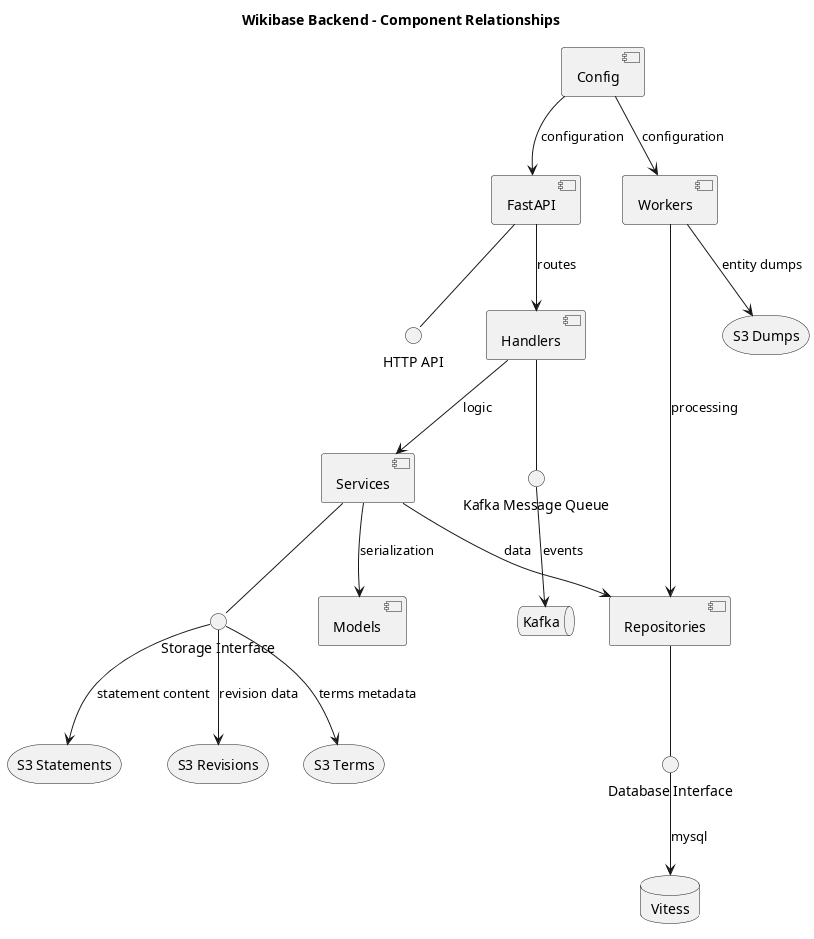
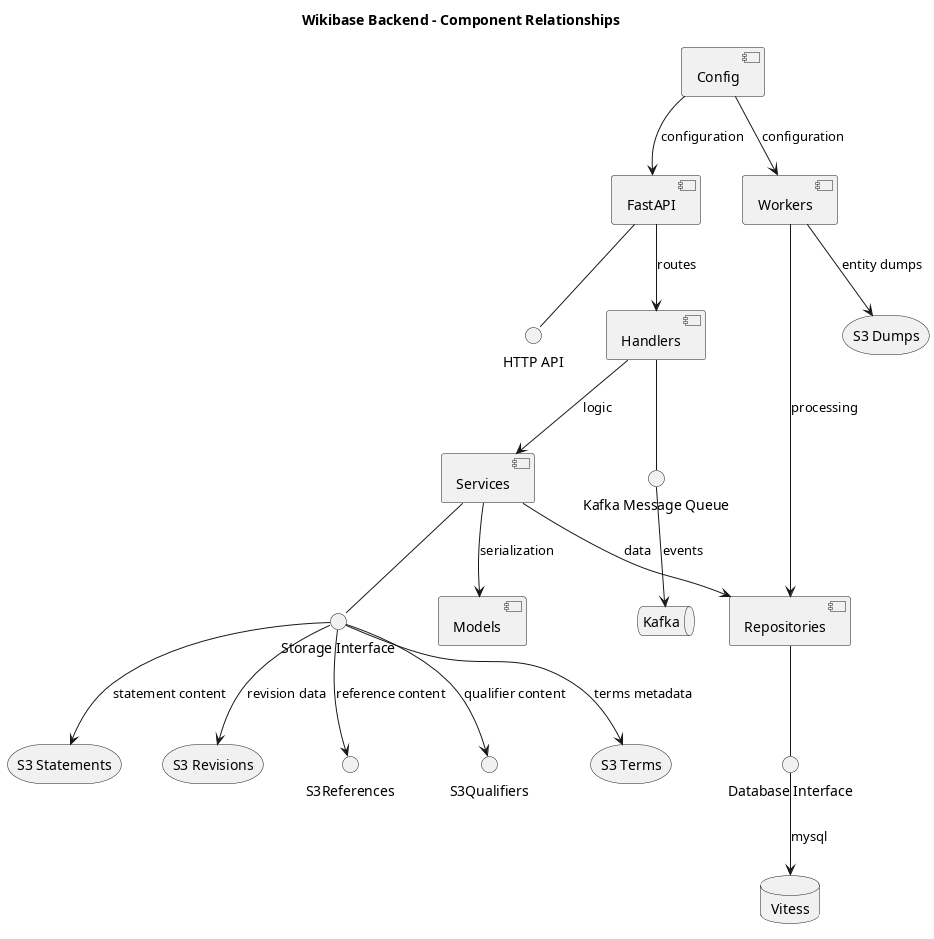
Update diagram generation scripts to include new S3 buckets for references and qualifiers

diff --git a/scripts/doc/generate_architecture_diagrams.py b/scripts/doc/generate_architecture_diagrams.py
@@ -237,19 +237,21 @@ def generate_data_flow_diagram(analysis: Dict) -> str:
 
     # Define actors and components
     components = [
-        'actor "Client" as Client',
-        'rectangle "FastAPI" as API',
-        'rectangle "Request Handler" as Handler',
-        'rectangle "Service Layer" as Service',
-        'rectangle "Vitess Client" as VitessClient',
-        'database "Vitess DB" as Vitess',
-        'rectangle "S3 Client" as S3Client',
-        'storage "S3 Terms" as S3Terms',
-        'storage "S3 Statements" as S3Statements',
-        'storage "S3 Revisions" as S3Revisions',
-        'storage "S3 Dumps" as S3Dumps',
-        'rectangle "Workers" as Workers',
-        'database "Kafka" as Kafka',
+        'actor \"Client\" as Client',
+        'rectangle \"FastAPI\" as API',
+        'rectangle \"Request Handler\" as Handler',
+        'rectangle \"Service Layer\" as Service',
+        'rectangle \"Vitess Client\" as VitessClient',
+        'database \"Vitess DB\" as Vitess',
+        'rectangle \"S3 Client\" as S3Client',
+        'storage \"S3 Terms\" as S3Terms',
+        'storage \"S3 Statements\" as S3Statements',
+        'storage \"S3 References\" as S3References',
+        'storage \"S3 Qualifiers\" as S3Qualifiers',
+        'storage \"S3 Revisions\" as S3Revisions',
+        'storage \"S3 Dumps\" as S3Dumps',
+        'rectangle \"Workers\" as Workers',
+        'database \"Kafka\" as Kafka',
     ]
 
     lines.extend(components)
@@ -273,6 +275,10 @@ def generate_data_flow_diagram(analysis: Dict) -> str:
         "S3Client -> S3Terms : Labels/Descriptions/Aliases",
         "Service -> S3Client : Statement Operations",
         "S3Client -> S3Statements : Statement Deduplication",
+        "Service -> S3Client : Reference Operations",
+        "S3Client -> S3References : Reference Deduplication",
+        "Service -> S3Client : Qualifier Operations",
+        "S3Client -> S3Qualifiers : Qualifier Deduplication",
         "Service -> S3Client : Revision Operations",
         "S3Client -> S3Revisions : Revision Data",
         "Workers -> S3Client : Dump Operations",
@@ -281,6 +287,8 @@ def generate_data_flow_diagram(analysis: Dict) -> str:
         "' Response flow",
         "S3Terms --> S3Client : Metadata",
         "S3Statements --> S3Client : Statements",
+        "S3References --> S3Client : References",
+        "S3Qualifiers --> S3Client : Qualifiers",
         "S3Revisions --> S3Client : Revisions",
         "S3Dumps --> S3Client : Dump Data",
         "S3Client --> Service : Retrieved Data",
@@ -357,6 +365,8 @@ def generate_component_relationship_diagram(analysis: Dict) -> str:
         "DBI --> Vitess : mysql",
         "SI --> S3Terms : terms metadata",
         "SI --> S3Statements : statement content",
+        "SI --> S3References : reference content",
+        "SI --> S3Qualifiers : qualifier content",
         "SI --> S3Revisions : revision data",
         "Workers --> S3Dumps : entity dumps",
         "MQ --> Kafka : events",
